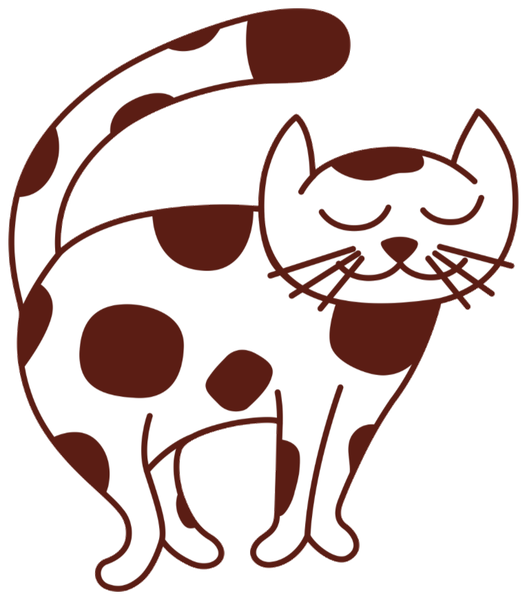
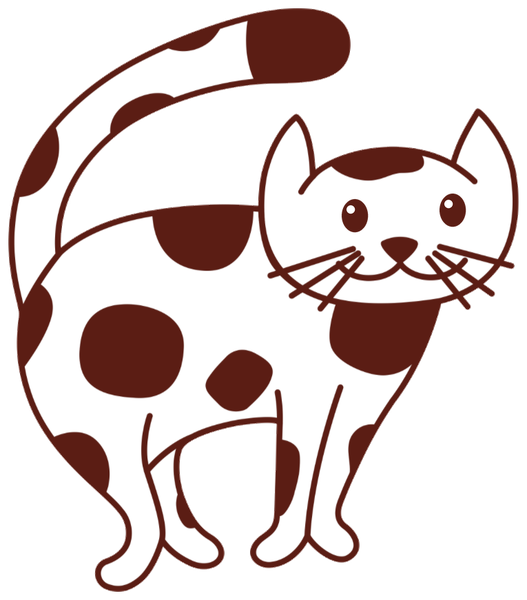
ESynC: remove greeting and circle, open the cat's eyes; solid maroon heroes
Claude-Session: https://claude.ai/code/session_01DLRbUknRiV98Nmzf7SNfVT

Changed region(s): [[0.7894, 0.3, 0.9412, 0.39], [0.6072, 0.33, 0.7287, 0.39], [0.7287, 0.33, 0.759, 0.36]]

diff --git a/src/pages/ESynC.jsx b/src/pages/ESynC.jsx
@@ -1,6 +1,6 @@
 import React, { useEffect, useRef, useState } from 'react';
 import { CONFIG } from '../config.js';
-import { getContext, onContextChange, playGreeting } from '../lib/esync.js';
+import { getContext, onContextChange } from '../lib/esync.js';
 import { loadIndicators } from '../lib/data.js';
 import ESynCCharacter from '../components/ESynCCharacter.jsx';
 
@@ -59,20 +59,13 @@ function RichText({ text }) {
 
 export default function ESynC() {
   const [ctx, setCtx] = useState(getContext());
-  const [messages, setMessages] = useState([{ role: 'assistant', content: CONFIG.GREETING_TEXT, greeting: true }]);
+  const [messages, setMessages] = useState([]);
   const [input, setInput] = useState('');
   const [busy, setBusy] = useState(false);
-  const [audioNote, setAudioNote] = useState('');
   const listRef = useRef(null);
 
   useEffect(() => onContextChange(setCtx), []);
   useEffect(() => { listRef.current?.lastElementChild?.scrollIntoView({ block: 'end', behavior: 'smooth' }); }, [messages, busy]);
-
-  const replay = async () => {
-    setAudioNote('');
-    const ok = await playGreeting();
-    if (!ok) setAudioNote('The recorded greeting isn’t available right now.');
-  };
 
   const send = async (text) => {
     const q = text.trim();
@@ -102,7 +95,7 @@ export default function ESynC() {
         method: 'POST',
         headers: { 'Content-Type': 'application/json' },
         body: JSON.stringify({
-          messages: next.filter((m) => !m.system && !m.greeting).map(({ role, content }) => ({ role, content })),
+          messages: next.filter((m) => !m.system).map(({ role, content }) => ({ role, content })),
           context: ctx,
           datasets,
         }),
@@ -122,14 +115,12 @@ export default function ESynC() {
     <section className="chat-page">
       <div className="container chat-wrap">
         <header className="chat-header">
-          <ESynCCharacter size={64} badge />
+          <ESynCCharacter size={64} />
           <div>
             <h1>ESynC</h1>
             <p className="muted">ESC’s economics assistant</p>
           </div>
-          <button className="btn btn-ghost btn-small replay" onClick={replay}>▶ Replay greeting</button>
         </header>
-        {audioNote && <p className="notice" role="status">{audioNote}</p>}
 
         {ctx.origin !== 'home' && d && (
           <details className="context-card" open>

diff --git a/src/lib/esync.js b/src/lib/esync.js
@@ -2,7 +2,6 @@ import { CONFIG } from '../config.js';
 import { navigate } from './router.js';
 
 const CTX_KEY = 'esync-context';
-const GREETED_KEY = 'esync-greeted';
 const listeners = new Set();
 
 export function getContext() {
@@ -20,38 +19,11 @@ export function onContextChange(fn) {
   return () => listeners.delete(fn);
 }
 
-let audio = null;
-
-// Plays the recorded greeting. Resolves true if it played, false otherwise.
-// Never throws, so the chat keeps working when the file is missing.
-export function playGreeting() {
-  try {
-    if (audio) { audio.pause(); }
-    audio = new Audio(CONFIG.GREETING_AUDIO);
-    const p = audio.play();
-    return (p && p.then ? p : Promise.resolve()).then(() => true).catch(() => false);
-  } catch {
-    return Promise.resolve(false);
-  }
-}
-
-function hasGreeted() {
-  try { return sessionStorage.getItem(GREETED_KEY) === '1'; } catch { return window.__escGreeted === true; }
-}
-function markGreeted() {
-  try { sessionStorage.setItem(GREETED_KEY, '1'); } catch { window.__escGreeted = true; }
-}
-
 /**
  * Opens ESynC. Call this from a tap/click handler.
  * context = { origin: 'home'|'chart'|'simulator'|'news'|'lab', title, details: {...} }
- * The first tap during a visit plays the recorded greeting.
  */
 export function openESynC(context = { origin: 'home' }) {
-  if (!hasGreeted()) {
-    markGreeted();
-    playGreeting();
-  }
   setContext({ ...context, openedAt: Date.now() });
   navigate('/esync');
 }

diff --git a/src/styles.css b/src/styles.css
@@ -361,3 +361,6 @@ h1, h2, h3, .brand-mark, .brand-text, .footer-title, .avatar-initials, .thumb-fa
 .hero-crest { width: min(320px, 100%); height: auto; filter: drop-shadow(0 14px 28px rgba(0,0,0,.35)); }
 @media (max-width: 760px) { .hero-crest { width: 170px; } }
 .feature.as-button { display: flex; flex-direction: column; justify-content: flex-start; align-items: stretch; }
+
+/* Solid maroon hero backgrounds (no gradient) */
+.hero, .page-hero { background: var(--maroon); }

diff --git a/src/config.js b/src/config.js
@@ -19,7 +19,4 @@ export const CONFIG = {
   // Membership form endpoint (Google Apps Script web app URL or Formspree URL).
   // Leave empty until it is set up; the form then shows the ESC email instead.
   REGISTRATION_ENDPOINT: '',
-
-  GREETING_AUDIO: 'audio/esync-greeting.mp3',
-  GREETING_TEXT: 'Hello, I am ESynC.',
 };

diff --git a/README.md b/README.md
@@ -16,7 +16,7 @@ The ESC website, built with React and Vite and published free on GitHub Pages.
 4. [Update the dashboard data](#update-the-dashboard-data)
 5. [News & releases: add or change sources](#news--releases-add-or-change-sources)
 6. [Connect the membership form](#connect-the-membership-form)
-7. [ESynC: voice greeting and AI backend](#esync-voice-greeting-and-ai-backend)
+7. [ESynC: AI backend](#esync-ai-backend)
 8. [Brand fonts](#brand-fonts)
 9. [Testing checklist](#testing-checklist)
 10. [Where things live](#where-things-live)
@@ -241,11 +241,7 @@ How the form behaves:
 
 ---
 
-## ESynC: voice greeting and AI backend
-
-### Add the voice recording
-
-Upload your recording to `public/audio/` with the name **`esync-greeting.mp3`** (**Add file → Upload files**). It plays the **first time** a visitor taps any *Ask ESynC* button during a visit. The chat also has a **Replay greeting** button. If the file is missing or the browser blocks audio, the text greeting “Hello, I am ESynC.” still shows and the chat works normally. The recording is only used for the greeting; AI answers are text.
+## ESynC: AI backend
 
 ### Set up the AI backend
 
@@ -285,14 +281,13 @@ The first version was tested in a browser at phone (iPhone 13), iPad and desktop
 - [x] Year filter, chart tooltips (hover, tap and arrow keys), CSV downloads filtered by year and labelled as sample
 - [x] Simulator: demand and supply shifts, original and new equilibrium, reset; CPI exercise answer check
 - [x] Chart, simulator and news context passed into ESynC, with matching starter questions
-- [x] First-tap greeting plays once per visit; Replay works; missing audio shows a note and the chat keeps working
 - [x] Registration: validation, failure message with email, success message only after success, email fallback when not connected
 - [x] Events: upcoming/past split, empty state linking @escbrunei, Events → series page navigation
 - [x] Members: current term, founders, past committees appear automatically after a term switch, initials when no photo
 - [x] Footer stacks on phones; email opens a new email; Instagram link; LinkedIn name and configurable link
 - [x] News fetcher: duplicate removal and keeping the last successful items when a source fails
 
-After going live, re-check on a real phone: tap Ask ESynC once (you should hear the greeting), submit a test registration, and confirm the Actions news run shows ✓ for the sources.
+After going live, re-check on a real phone: open Ask ESynC, open the membership form, and confirm the Actions news run shows ✓ for the sources.
 
 ---
 
@@ -303,7 +298,8 @@ After going live, re-check on a real phone: tap Ask ESynC once (you should hear 
 public/data/*.csv              dashboard datasets (one per indicator)
 public/data/indicators.json    source, unit, status for each dataset
 public/data/news.json          news feed (written by the workflow)
-public/audio/                  esync-greeting.mp3
+public/images/esync.png        ESynC cat mascot
+public/images/esc-crest.png    ESC crest (homepage)
 public/fonts/                  brand font files
 public/images/committee/       committee photos
 public/images/events/          event photos
